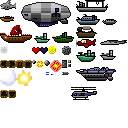
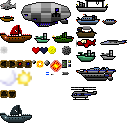
Added Pirate Ghost Ship, modified level 08.

Changed region(s): [[0.0, 0.8125, 0.25, 0.9688]]

diff --git a/java/mhyhre/lightrabbit/game/units/models/PirateGhostShipUnit.java b/java/mhyhre/lightrabbit/game/units/models/PirateGhostShipUnit.java
@@ -1,0 +1,85 @@
+/*
+ * Copyright (C) 2013-2015 Andrey Tulyakov
+ * @mail: mhyhre@gmail.com
+ */
+
+package mhyhre.lightrabbit.game.units.models;
+
+import mhyhre.lightrabbit.game.WaterPolygon;
+import mhyhre.lightrabbit.game.units.UnitIdeology;
+import mhyhre.lightrabbit.game.units.UnitType;
+import mhyhre.lightrabbit.game.weapons.guns.Gun150;
+import mhyhre.lightrabbit.utils.ControllType;
+
+
+public class PirateGhostShipUnit extends UnitModel {
+
+    private float targetRotation = -30;
+
+
+    public PirateGhostShipUnit(int id) {
+        super(id, UnitType.PIRATE_GHOST_SHIP, 10, 60, 0.3f, 1.0f, ControllType.LEFT_RIGHT);
+        setIdeology(UnitIdeology.NEUTRAL);
+        setSize(128, 75);
+        setRadius(45);
+
+        setGun(new Gun150(this, 50));
+    }
+
+    @Override
+    public void setDied(boolean mDied) {
+        super.setDied(mDied);
+    };
+
+    public float getWaterLevel() {
+        return mWaterLevel;
+    }
+
+    public void setWaterLevel(float mWaterLevel) {
+        this.mWaterLevel = mWaterLevel;
+    }
+
+    @Override
+    public void update(WaterPolygon water) {
+
+        if (isDied == true) {
+
+            yPosition += sSinkSpeed;
+
+            if (rotation > targetRotation)
+                rotation-=0.5f;
+
+            if (bright > 0) {
+                bright -= 0.01f;
+                if (bright < 0.1f)
+                    bright = 0.0f;
+            }
+
+        } else {
+
+            // Update jumping
+            if(canJump == false && jumpAcceleration > - JUMP_ACCELERATION_LIMIT) {
+                jumpAcceleration -= 0.8f;
+            }
+
+            setRotation(-water.getObjectAngle(getX()) / 2.0f);
+            setWaterLevel(5 + water.getObjectYPosition(getX()) + 20);
+
+            float waveYPositionUnderPlayer = 10 + water.getObjectYPosition(getX());
+
+            if(getY() < waveYPositionUnderPlayer - 10 && canJump == false) {
+                setY(waveYPositionUnderPlayer);
+                canJump = true;
+            } else {
+                if(canJump == false) {
+                    setY(getY() + jumpAcceleration);
+                } else {
+                    setY(waveYPositionUnderPlayer);
+                }
+            }
+
+            yPosition = (float) (mWaterLevel);
+            updateAgents();
+        }
+    }
+}

diff --git a/java/mhyhre/lightrabbit/game/units/UnitGenerator.java b/java/mhyhre/lightrabbit/game/units/UnitGenerator.java
@@ -22,6 +22,7 @@ import mhyhre.lightrabbit.game.units.models.MerchantShip;
 import mhyhre.lightrabbit.game.units.models.NovaSteamShip;
 import mhyhre.lightrabbit.game.units.models.PirateAirUnit;
 import mhyhre.lightrabbit.game.units.models.PirateBoatUnit;
+import mhyhre.lightrabbit.game.units.models.PirateGhostShipUnit;
 import mhyhre.lightrabbit.game.units.models.PirateShipUnit;
 import mhyhre.lightrabbit.game.units.models.ImperialPoliceShipUnit;
 import mhyhre.lightrabbit.game.units.models.SharkUnit;
@@ -44,7 +45,7 @@ public class UnitGenerator {
         UnitController controller = null;
         
         switch (type) {
-        
+
         case STEAM_SHIP:
             model = new SteamShip(id);
             break;
@@ -82,7 +83,11 @@ public class UnitGenerator {
             break;
 
         case PIRATE_SHIP:
-            model = new PirateShipUnit(id);                
+                model = new PirateShipUnit(id);
+                break;
+
+        case PIRATE_GHOST_SHIP:
+            model = new PirateGhostShipUnit(id);
             break;
 
         case PIRATE_BOAT:

diff --git a/java/mhyhre/lightrabbit/game/units/agents/UnitStopAgent.java b/java/mhyhre/lightrabbit/game/units/agents/UnitStopAgent.java
@@ -21,8 +21,6 @@ public class UnitStopAgent extends UnitAgent {
         this.position = position;
         this.epselon = epselon;
 
-        Log.i(MainActivity.DEBUG_ID,"UnitStopAgent!");
-
         if(unit.getController().isPlayerController()) {
             Log.w(MainActivity.DEBUG_ID, "UnitStopAgent: NPC unit needed.");
         }
@@ -38,13 +36,10 @@ public class UnitStopAgent extends UnitAgent {
                 NPCController controller =  (NPCController)unit.getController();
                 NonPlayerUnitState state = controller.getState();
 
-                Log.i(MainActivity.DEBUG_ID,"Prizrak stop 1!");
-
                 if(state == NonPlayerUnitState.ATTACK_AND_MOVE) {
                     controller.setState(NonPlayerUnitState.ATTACK);
                 } else if(state == NonPlayerUnitState.MOVE) {
                     controller.setState(NonPlayerUnitState.NONE);
-                    Log.i(MainActivity.DEBUG_ID, "Prizrak stop 2!");
                 }
             } else {
                 Log.w(MainActivity.DEBUG_ID, "UnitStopAgent: deactivated, but not executed");

diff --git a/java/mhyhre/lightrabbit/ResourceManager.java b/java/mhyhre/lightrabbit/ResourceManager.java
@@ -152,6 +152,9 @@ public class ResourceManager {
         region = TextureRegionFactory.extractFromTexture(atlas, 0, 25, 32, 18);
         regions.put("PirateShip", region);
 
+        region = TextureRegionFactory.extractFromTexture(atlas, 0, 105, 32, 18);
+        regions.put("PirateGhostShip", region);
+
         region = TextureRegionFactory.extractFromTexture(atlas, 0, 0, 16, 10);
         regions.put("Shark", region);
         

diff --git a/java/mhyhre/lightrabbit/game/units/agents/UnitDieAgent.java b/java/mhyhre/lightrabbit/game/units/agents/UnitDieAgent.java
@@ -36,7 +36,6 @@ public class UnitDieAgent extends UnitAgent {
                 UnitModel model = unit.getModel();
                 model.setHealth(0);
                 model.setDied(true);
-                Log.i(MainActivity.DEBUG_ID, "UnitDieAgent: deactivated");
             } else {
                 Log.w(MainActivity.DEBUG_ID, "UnitDieAgent: deactivated, but not executed");
             }

diff --git a/java/mhyhre/lightrabbit/game/units/UnitType.java b/java/mhyhre/lightrabbit/game/units/UnitType.java
@@ -19,6 +19,7 @@ public enum UnitType {
     
     PIRATE_BOAT("PirateBoat"),
     PIRATE_SHIP("PirateShip"),
+    PIRATE_GHOST_SHIP("PirateGhostShip"),
     PIRATE_AIR("PirateAir"),
     
     IMPERIAL_BOAT_UNIT("ImperialBoat"),
